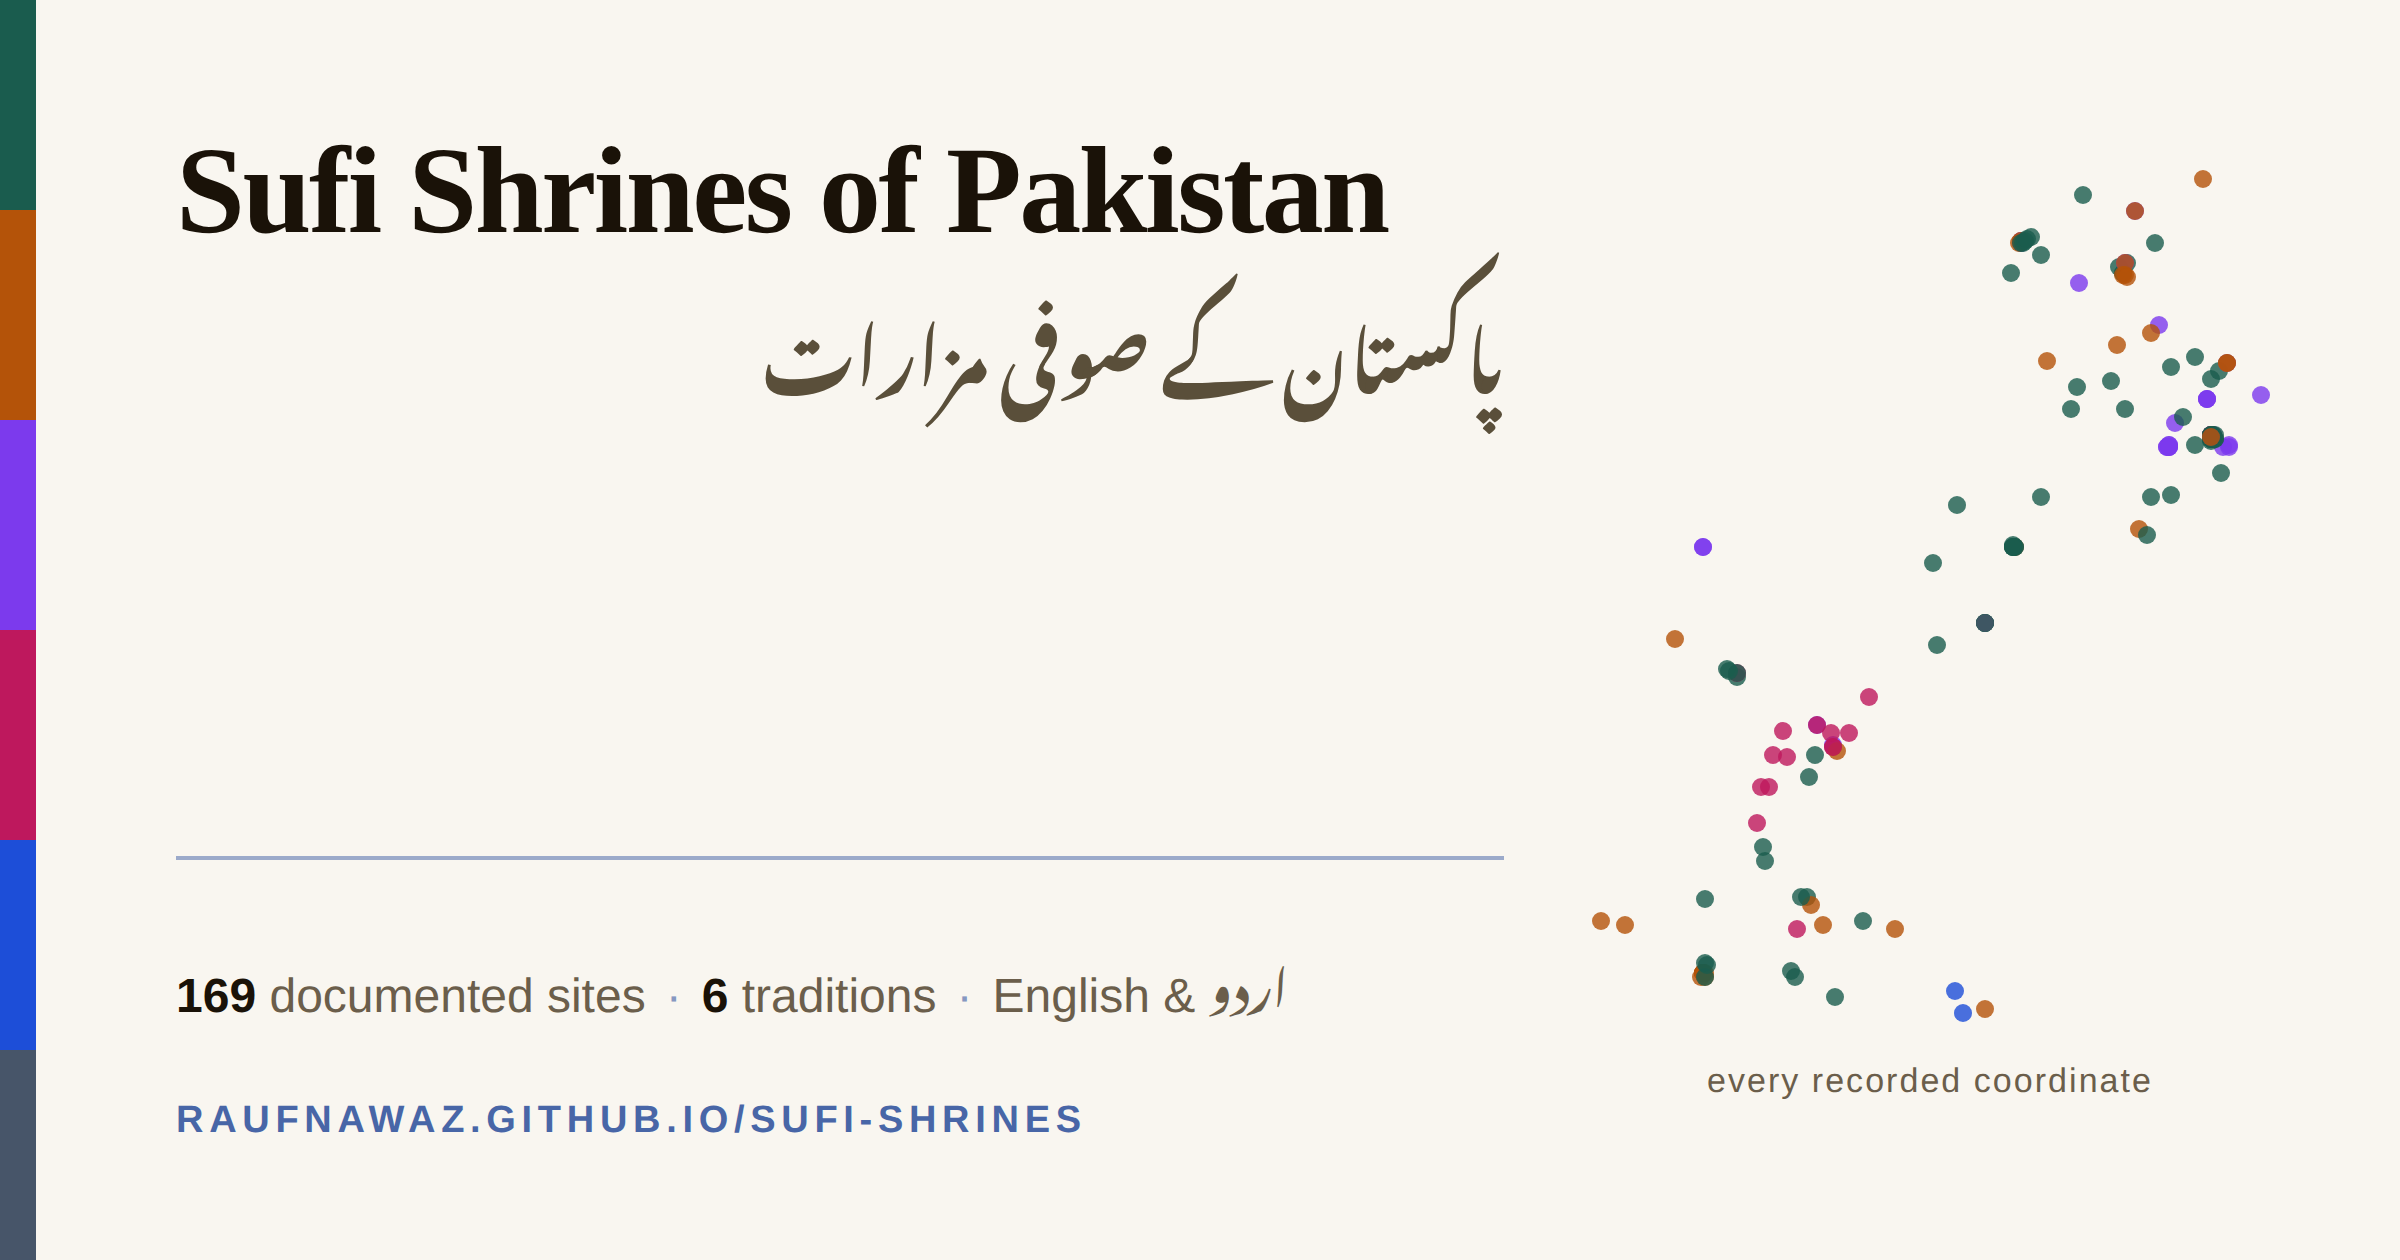
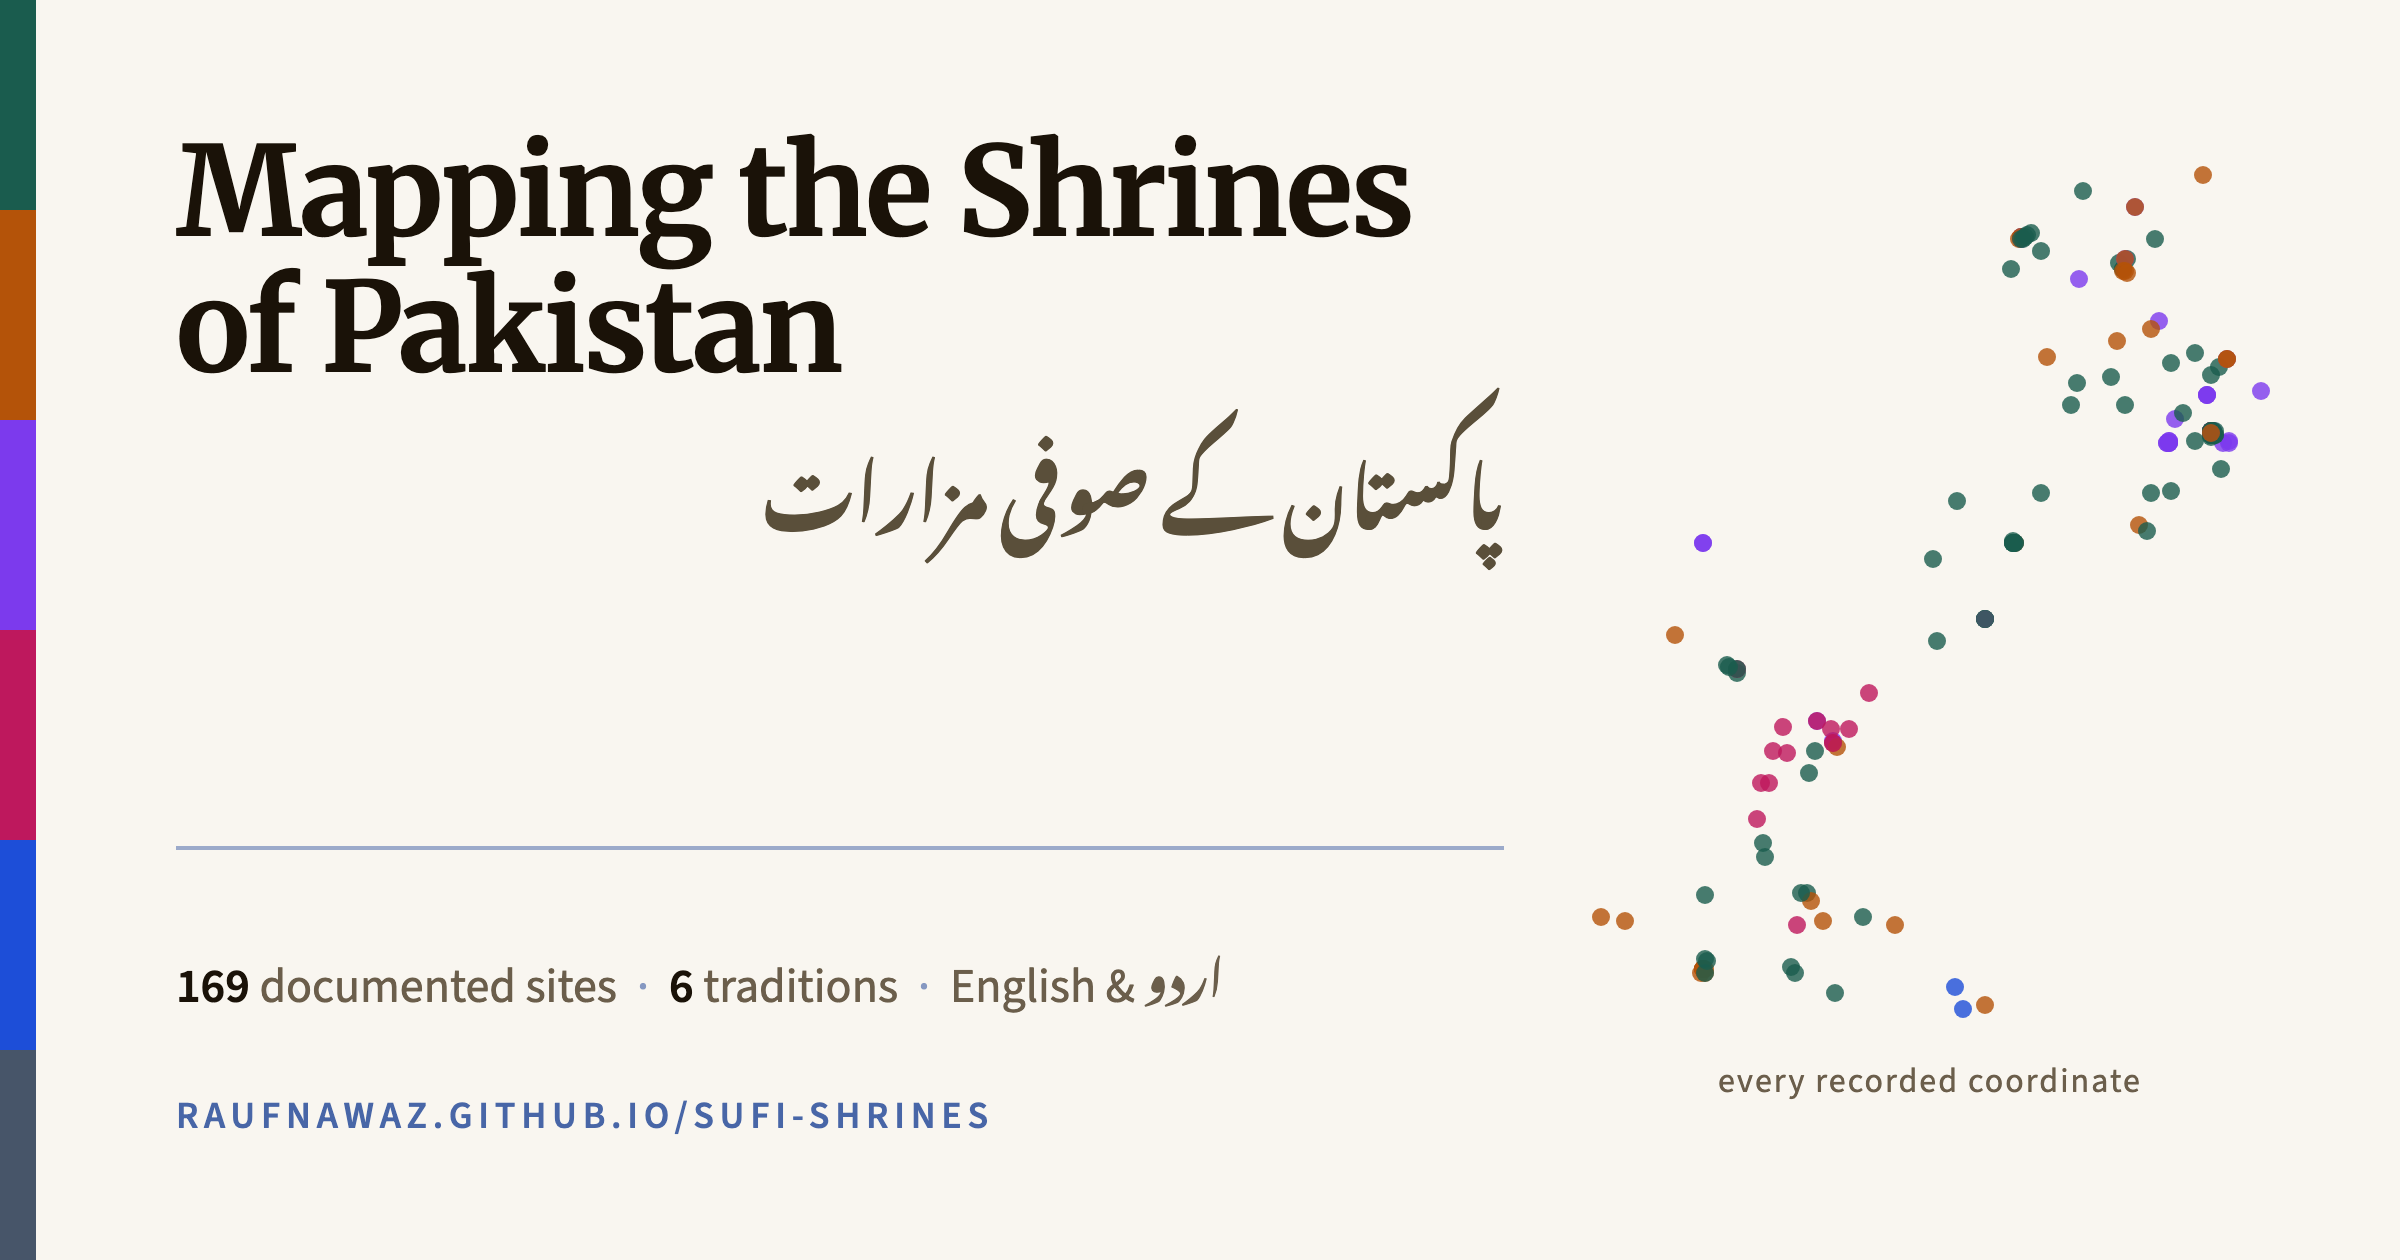
feat: the archive stops calling itself something 88 of its sites are not
It said "Sufi Shrines" on every page — the front door's h1, the welcome card,
every document title, og:site_name — and the live sheet holds 79 Muslim shrines
against 35 Hindu temples, 33 Sikh gurdwaras, 14 Nanakpanthi/Udasi darbars, 3
Jain temples and 3 secular memorials. A reader arriving at a gurdwara was told
they were inside a Sufi collection, and a link to Guru Nanak pasted into a
message previewed as "Guru Nanak — Sufi Shrines". Only /about, the page most
readers never open, named all six traditions.

Renamed on Rauf's ruling to the name the project has carried in CLAUDE.md from
the start, so this is the archive agreeing with itself rather than a rebrand.
**No slug changes and the /Sufi-Shrines/ deploy path is untouched** — a URL that
is in the world stays in the world.

`prerender.mjs` had the literal in seventeen places and now has a `SITE_TITLE`
constant beside the `SITE_TITLE_UR` that was already there, which is the shape
that stops this drifting again.

**The Urdu name is deliberately NOT renamed in this commit.** 'پاکستان کے صوفی
مزارات' says "Pakistan's Sufi shrines" and has exactly the same problem, but an
archive's name in Urdu is Urdu content and RULE 2 puts authoring it beyond an
agent. It is left saying the wrong thing rather than guessed at, annotated in
place, and recorded in SESSION_RESUME.md as waiting on a fluent speaker. The two
editions disagree about the archive's name until then, and that is the honest
state rather than a hidden one.
[…]

diff --git a/index.html b/index.html
@@ -8,13 +8,13 @@
       name="description"
       content="An interactive map of Sufi shrines across Pakistan. Explore histories, architecture, rituals, and visitor information in English and Urdu."
     />
-    <meta property="og:title" content="Sufi Shrines of Pakistan" />
+    <meta property="og:title" content="Mapping the Shrines of Pakistan" />
     <meta
       property="og:description"
       content="Explore Sufi shrine histories, architecture, rituals, and visitor information across Pakistan in English and Urdu."
     />
     <meta property="og:type" content="website" />
-    <meta property="og:site_name" content="Sufi Shrines of Pakistan" />
+    <meta property="og:site_name" content="Mapping the Shrines of Pakistan" />
     <meta property="og:locale" content="en" />
     <meta property="og:locale:alternate" content="ur" />
 
@@ -31,7 +31,7 @@
     <meta property="og:image:height" content="630" />
     <meta
       property="og:image:alt"
-      content="Sufi Shrines of Pakistan — پاکستان کے صوفی مزارات. 169 documented sites, plotted at their recorded coordinates."
+      content="Mapping the Shrines of Pakistan — پاکستان کے صوفی مزارات. Shrines, temples, gurdwaras and darbars, plotted at their recorded coordinates."
     />
     <meta name="twitter:card" content="summary_large_image" />
     <meta name="twitter:image" content="/og-image.png" />
@@ -46,7 +46,7 @@
     <!-- iOS PWA home-screen support -->
     <meta name="apple-mobile-web-app-capable" content="yes" />
     <meta name="apple-mobile-web-app-status-bar-style" content="black-translucent" />
-    <meta name="apple-mobile-web-app-title" content="Sufi Shrines" />
+    <meta name="apple-mobile-web-app-title" content="Mapping the Shrines" />
     <link rel="apple-touch-icon" href="/apple-touch-icon.png" />
 
     <!-- Fonts: linked here (not @import) so the fetch starts before the app CSS arrives.
@@ -156,7 +156,7 @@
     <link rel="dns-prefetch" href="https://d.basemaps.cartocdn.com" />
 
     <link rel="icon" href="/favicon.svg" type="image/svg+xml" />
-    <title>Sufi Shrines of Pakistan</title>
+    <title>Mapping the Shrines of Pakistan</title>
   </head>
   <body>
     <div id="root"></div>

diff --git a/src/lib/i18n/uiStrings.ts b/src/lib/i18n/uiStrings.ts
@@ -1,14 +1,28 @@
 import type { Lang } from '../../types/shrine';
 
 const UI_TEXT_EN = {
-  title: 'Sufi Shrines',
-  siteTitle: 'Sufi Shrines of Pakistan',
+  /* The archive's own name, renamed 30 August 2026. It called itself "Sufi
+     Shrines" on every page while 88 of its 171 sites are not Sufi shrines —
+     79 Muslim shrines against 35 Hindu temples, 33 Sikh gurdwaras, 14
+     Nanakpanthi/Udasi darbars, 3 Jain temples and 3 secular memorials. A
+     reader arriving at a gurdwara was told they were inside a Sufi collection,
+     and a shared link to Guru Nanak previewed as "Guru Nanak — Sufi Shrines".
+     Only /about named all six.
+
+     The name is the one the project has carried in CLAUDE.md from the start,
+     so this is the archive agreeing with itself rather than a rebrand. No slug
+     changes and the /Sufi-Shrines/ deploy path is untouched: a URL that is in
+     the world stays in the world.
+
+     `UI_TEXT.ur` is deliberately NOT renamed in the same commit — see there. */
+  title: 'Mapping the Shrines',
+  siteTitle: 'Mapping the Shrines of Pakistan',
   siteMetaDescription:
-    'An interactive map of Sufi shrines across Pakistan. Explore histories, architecture, rituals, and visitor information in English and Urdu.',
+    'An interactive map of shrines, temples, gurdwaras and darbars across Pakistan. Explore histories, architecture, rituals, and visitor information in English and Urdu.',
   loading: 'Loading data...',
   loadingShrine: 'Loading shrine details...',
   noSelection: 'No shrine selected yet. Click a marker to view details.',
-  exploreTitle: 'Explore Sufi Shrines',
+  exploreTitle: 'Explore the Shrines',
   exploreHint: 'Use the list button above to browse all shrines.',
   tableButton: 'Table of Shrines',
   settings: 'Settings',

diff --git a/src/lib/i18n/uiStrings.ur.ts b/src/lib/i18n/uiStrings.ur.ts
@@ -114,6 +114,13 @@ export const UI_TEXT_UR: UiStrings = {
   settingsAllOptions: 'تمام ترتیبات',
   settingsToursHelp:
     'آرکائیو میں سے منتخب راستے۔ طے شدہ طور پر بند ہیں — نقشے کا اپنا موضوع خود یہ مقامات ہیں۔',
+  /* NOT renamed alongside the English on 30 August 2026, deliberately.
+     'پاکستان کے صوفی مزارات' says "Pakistan's Sufi shrines" and carries exactly
+     the same problem the English rename fixed — but an archive's name in Urdu
+     is Urdu content, and RULE 2 plus the i18n rules put authoring it beyond an
+     agent. Left saying the wrong thing rather than guessed at, and recorded in
+     SESSION_RESUME.md as waiting on a fluent speaker. The two editions disagree
+     about the archive's name until then, and that is the honest state. */
   title: 'صوفی مزارات',
   siteTitle: 'پاکستان کے صوفی مزارات',
   siteMetaDescription:
